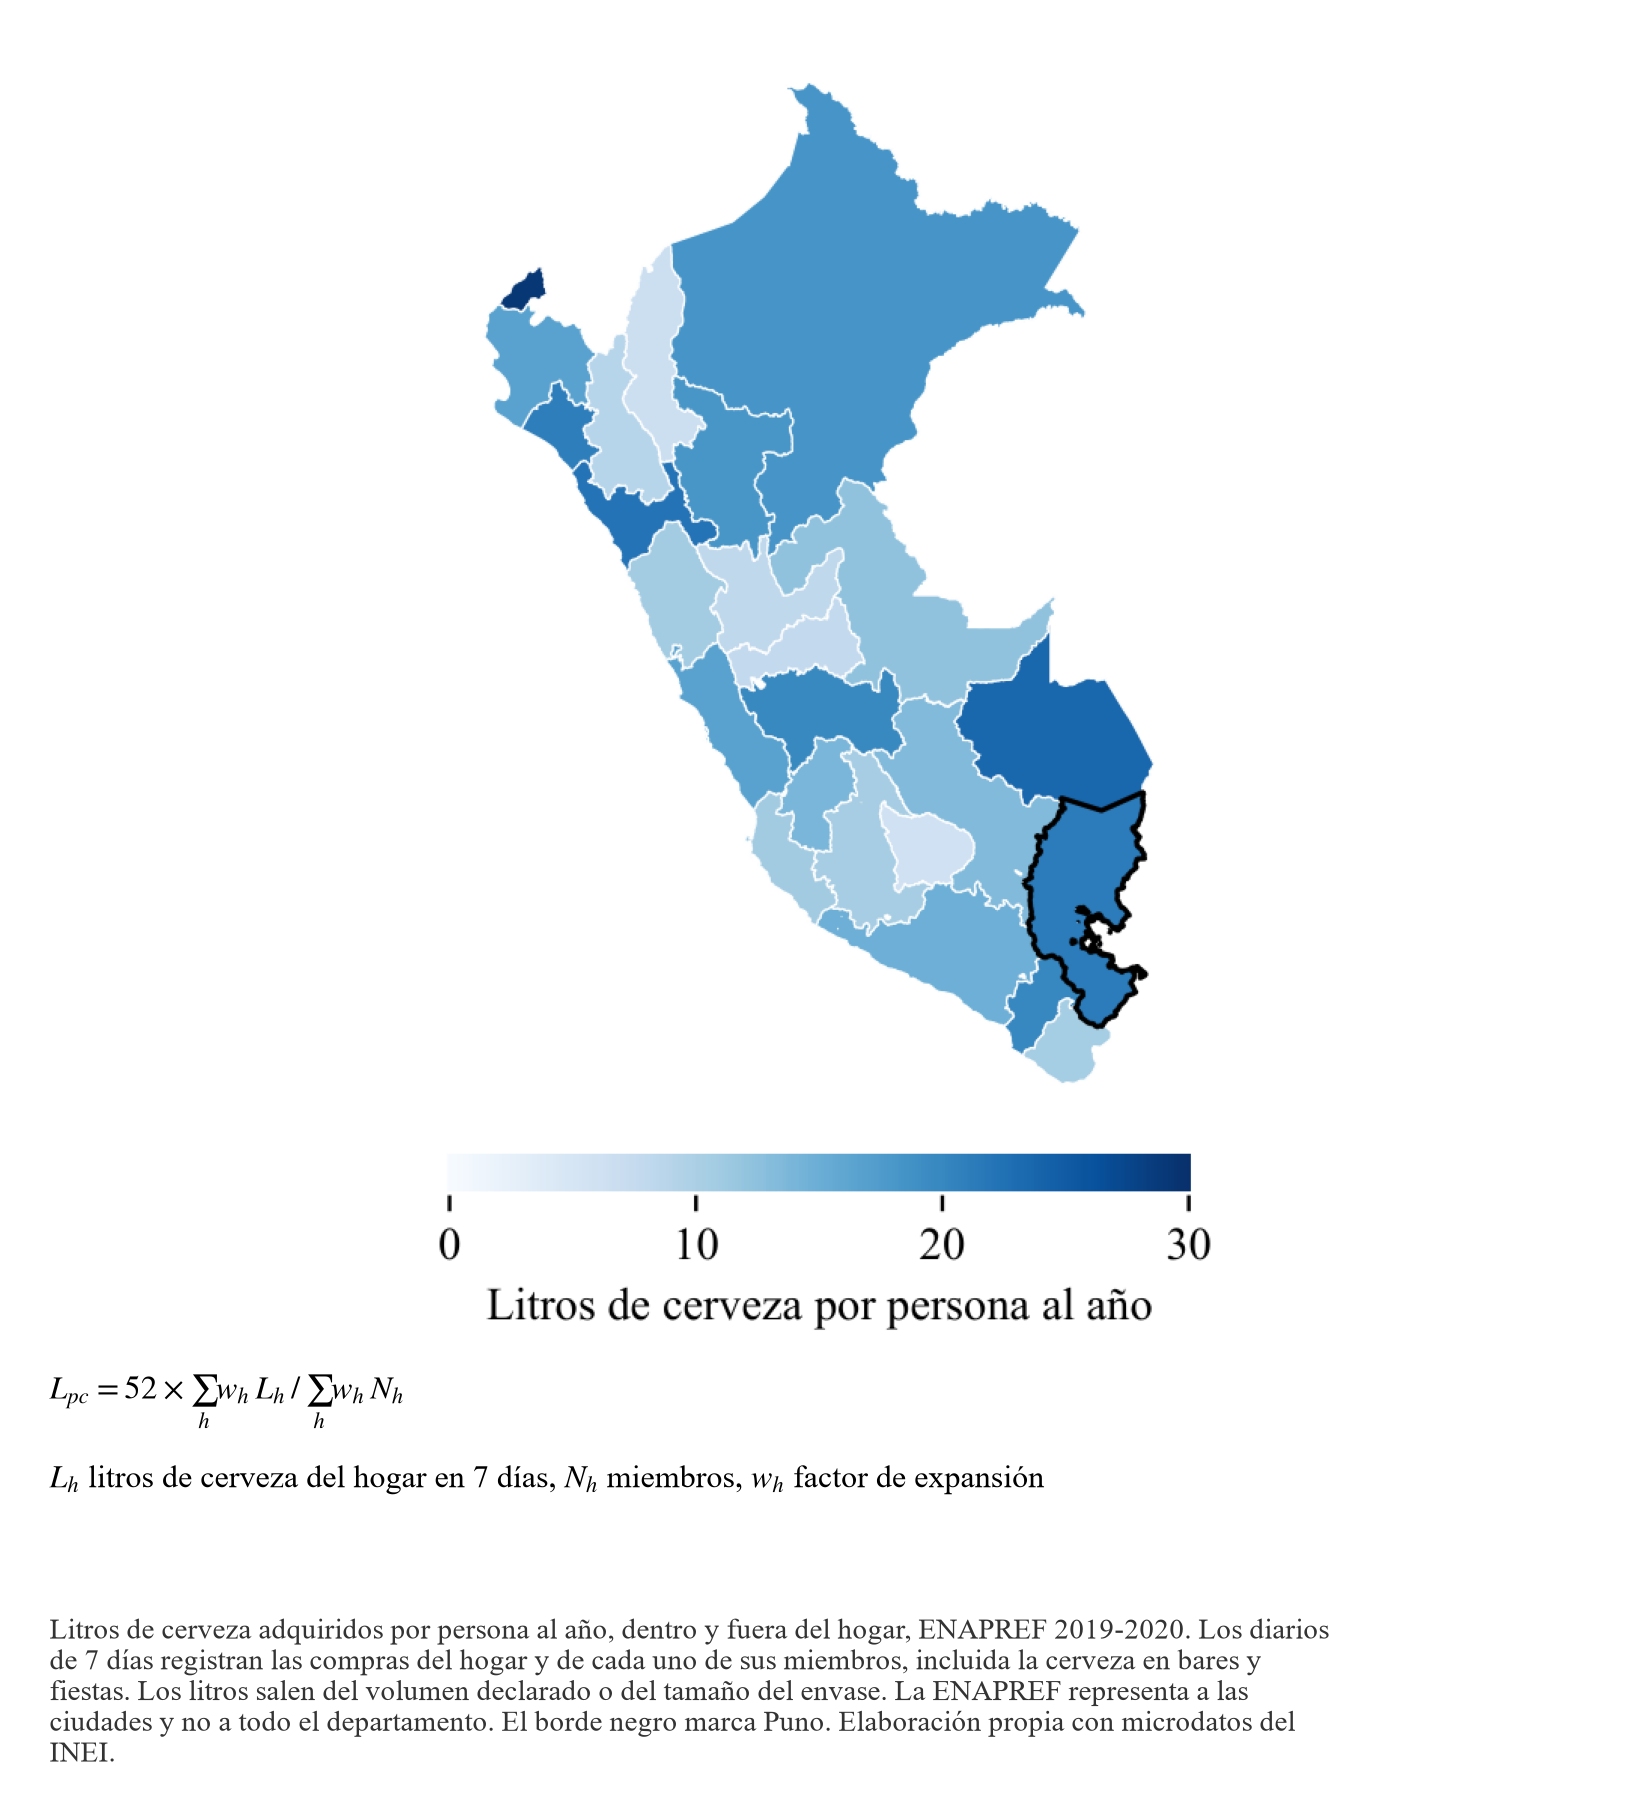
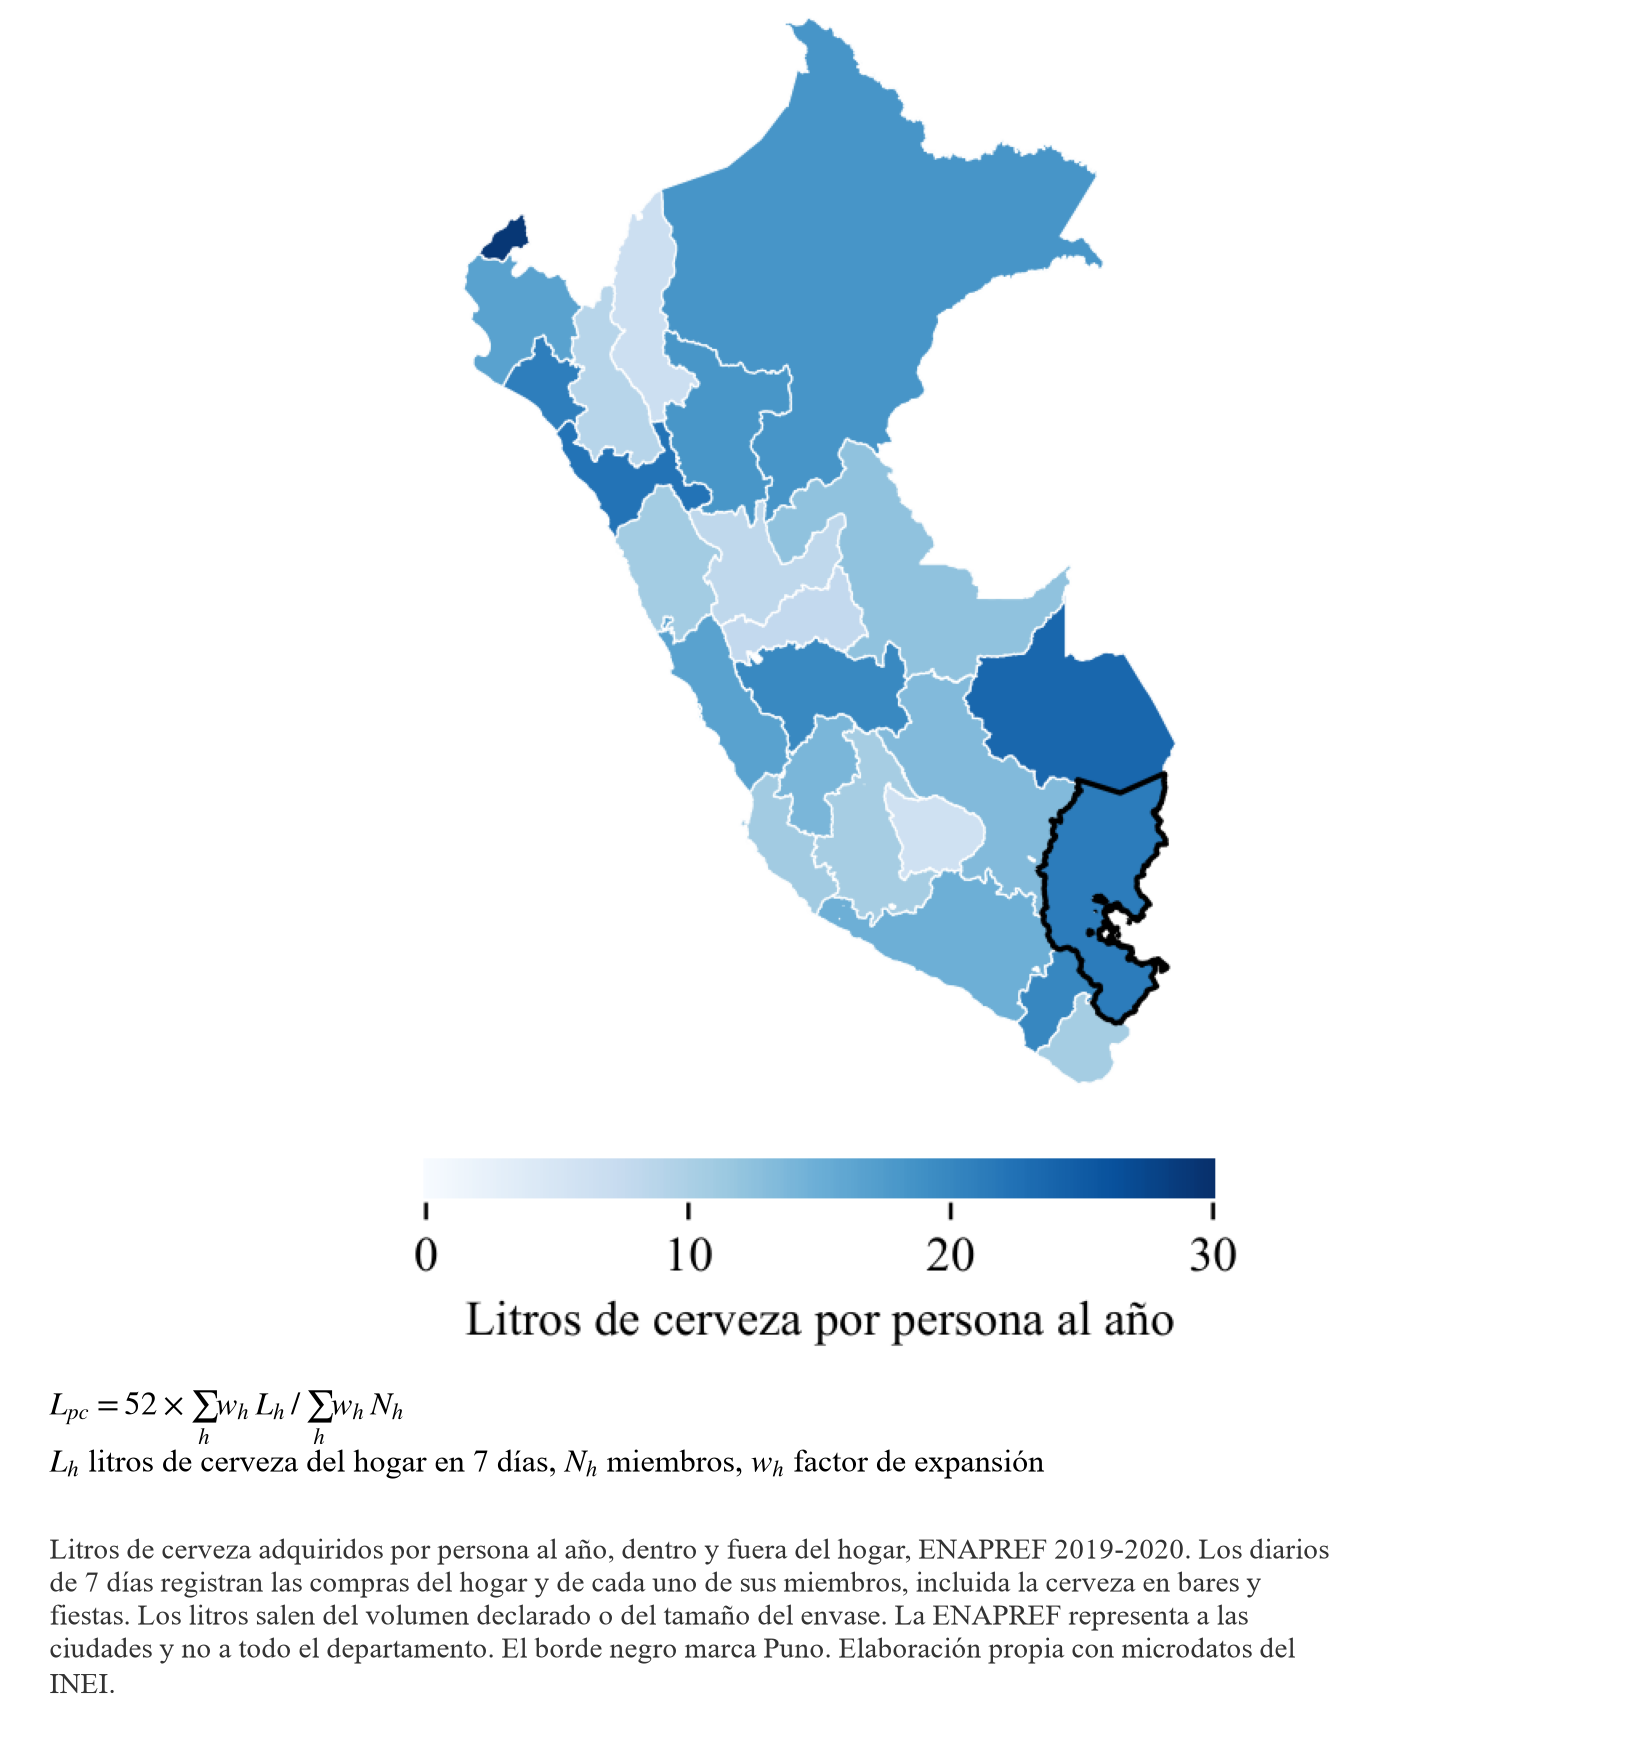
Social-media figures: notes placed right under each chart

Changed region(s): [[0.2473, 0.0, 0.7418, 0.7697], [0.0309, 0.7697, 0.8036, 0.9852], [0.5564, 0.3079, 0.5873, 0.3387]]

diff --git a/codigo/fig_alcohol_redes.py b/codigo/fig_alcohol_redes.py
@@ -40,21 +40,36 @@ def note_block(fig, eq, text, y0, wrap, size_eq=10.5, size=9.5):
     return body.count("\n") + 1
 
 
+def trim(img, pad=12, thr=245):
+    """Cut white margins around the plot."""
+    mask = (img < thr).any(axis=2)
+    rows, cols = np.where(mask.any(axis=1))[0], np.where(mask.any(axis=0))[0]
+    r0, r1 = max(rows[0] - pad, 0), min(rows[-1] + pad, img.shape[0])
+    c0, c1 = max(cols[0] - pad, 0), min(cols[-1] + pad, img.shape[1])
+    return img[r0:r1, c0:c1]
+
+
 def compose(img, eq, text, width_in=7.5, wrap=105, max_h=None):
-    lines = textwrap.fill(text + " " + FIRMA, wrap).count("\n") + 1
+    img = trim(img)
+    body = textwrap.fill(text + " " + FIRMA, wrap)
+    lines = body.count("\n") + 1
     h_img = width_in * img.shape[0] / img.shape[1]
     if max_h:
         h_img = min(h_img, max_h)
-    h_eq = 0.30 * len(eq) + (0.15 if eq else 0)
-    h_txt = 0.19 * lines + 0.30
-    H = h_img + h_eq + h_txt
+    gap, h_line_eq, h_line_txt = 0.12, 0.27, 0.175
+    h_eq = h_line_eq * len(eq)
+    h_txt = h_line_txt * lines
+    H = h_img + gap + h_eq + gap + h_txt + 0.12
     fig = plt.figure(figsize=(width_in, H))
-    ax = fig.add_axes([0, (h_eq + h_txt) / H, 1, h_img / H])
+    ax = fig.add_axes([0, 1 - h_img / H, 1, h_img / H])
     ax.imshow(img)
     ax.set_axis_off()
-    for k, line in enumerate(eq):
-        fig.text(0.03, (h_txt + h_eq - 0.30 * (k + 1)) / H, line, ha="left", va="bottom", fontsize=10.5)
-    fig.text(0.03, 0.15 / H, textwrap.fill(text + " " + FIRMA, wrap), ha="left", va="bottom", fontsize=9.5, color="#333333")
+    y = h_img + gap                      # inches from the top
+    for line in eq:
+        fig.text(0.03, 1 - y / H, line, ha="left", va="top", fontsize=10.5)
+        y += h_line_eq
+    y += gap
+    fig.text(0.03, 1 - y / H, body, ha="left", va="top", fontsize=9.5, color="#333333", linespacing=1.25)
     return fig
 
 
